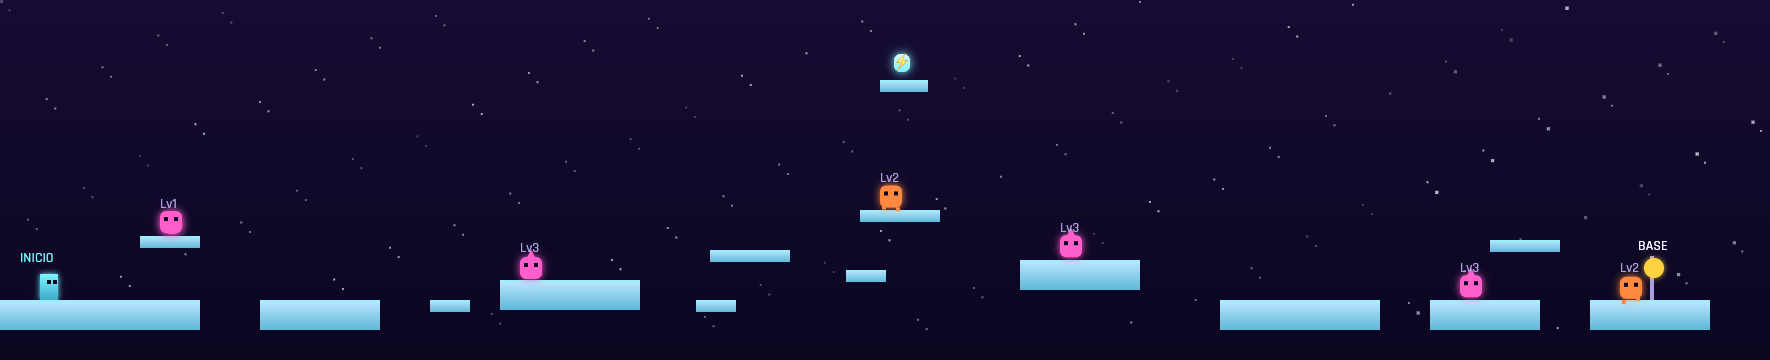
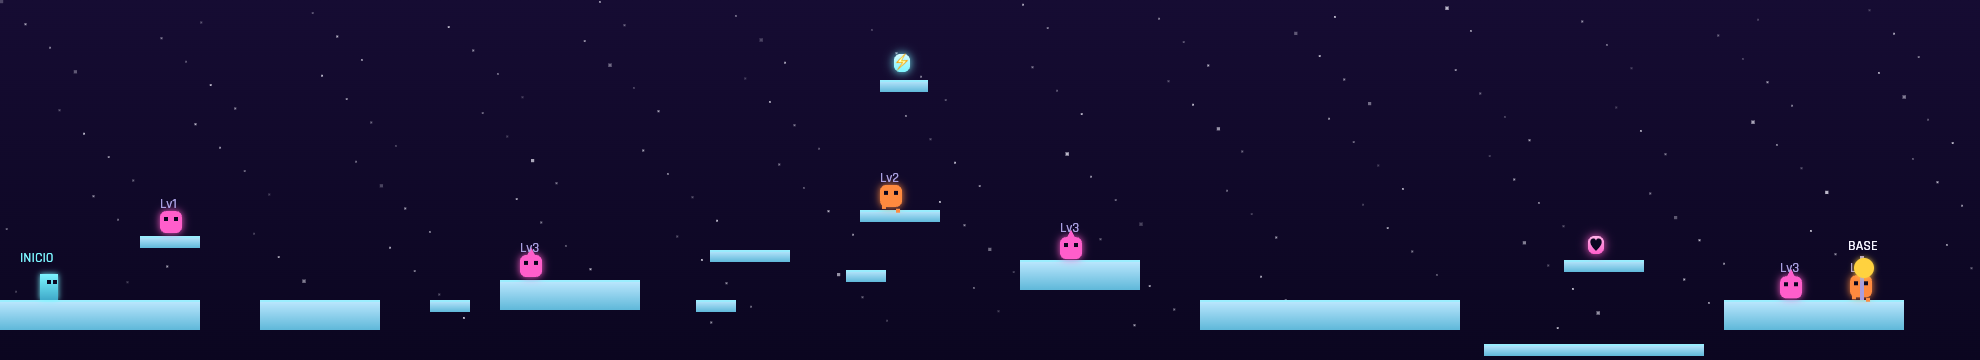
Grietas de Hielo: el hielo resbala de verdad y estrena su set piece
El nivel 2 era "un nivel normal con estética helada": el variant 'ice'
solo cambiaba el color. Ahora sobre hielo el movimiento tiene inercia
(constantes ICE_* en entities.js): la carrerilla supera la velocidad
normal (1.55 → 2.6), al soltar sigues deslizándote, y el impulso se
conserva al saltar — un salto con carrerilla llega a ~68u frente a ~42.
El control en el resto de suelos (y en el aire a velocidad base) queda
idéntico, así que ni el game feel de los otros 11 niveles ni la medición
maxReach del test BFS cambian; el flag iceMomentum evita que el dash de
Shade herede la inercia aérea (test de regresión incluido).

El tramo final del nivel es el set piece que lo enseña: pista de
despegue de 130 → hueco de 52 (entre el alcance del salto normal y el
del salto con carrerilla, fijado por test) → islote con la cápsula ♥,
que deja de estar en un salto trivial del arranque y pasa a ser el
premio por dominar la mecánica. Debajo, red de seguridad continua
(no piedras sueltas: el arco de un salto normal fallado caía justo
entre ellas y fallar habría sido muerte) que saca a la meseta final
con salto simple — Scrap y el BFS siguen pasando. Aviso contextual de
una sola vez al pisar hielo, mismo patrón que el de Scrap.

diff --git a/__tests__/live.test.js b/__tests__/live.test.js
@@ -440,6 +440,21 @@ describe('Diseño de niveles — completables con salto SIMPLE (Scrap), contra j
         expect(missing).toEqual([]);
     });
 
+    test('regla de diseño: el hueco del set piece de hielo (nivel 2) NO se cruza sin carrerilla', () => {
+        // Si algún día crece jumpPower/speed, este test avisa de que el set piece del nivel 2
+        // deja de serlo (el salto normal cruzaría gratis, sin necesitar el deslizamiento).
+        const { LEVELS, Player } = loadGame();
+        const maxReach = makeMaxReach(Player);
+        const lvl = LEVELS[1]; // Grietas de Hielo
+        const runway = lvl.platforms.find(p => p[0] === 600 && p[1] === 150);
+        const island = lvl.platforms.find(p => p[0] === 782 && p[1] === 130);
+        expect(runway).toBeDefined();
+        expect(island).toBeDefined();
+        const gap = island[0] - (runway[0] + runway[2]);
+        const dy = island[1] - runway[1];
+        expect(gap).toBeGreaterThan(maxReach(dy));
+    });
+
     test('los 12 niveles se pueden completar solo con salto simple — y por tanto con cualquier piloto', () => {
         const { LEVELS, Player } = loadGame();
         const maxReach = makeMaxReach(Player);
@@ -598,6 +613,86 @@ describe('Reto Diario (contra js/game.js real)', () => {
         const isRecord3 = game.saveDailyRecord('2026-08-25', 9000, 'kes'); // día NUEVO
         expect(isRecord3).toBe(true); // un día nuevo siempre "es récord" (no hay con qué comparar)
         expect(game.dailyRecord.time).toBe(9000);
+    });
+});
+
+describe('Hielo resbaladizo (contra js/entities.js real)', () => {
+    // Suelo largo del variant pedido + jugador ya de pie encima, con groundPlatform preasignado
+    // (en el juego real lo asigna el snap de aterrizaje del frame anterior).
+    function onFloor(variant, character = 'kes') {
+        const { Player, Platform, LEVELS } = loadGame();
+        const floor = new Platform(0, 150, 400, 15, variant);
+        const p = new Player(20, 137, character);
+        p.onGround = true; p.groundPlatform = floor;
+        const particles = { burst() {} };
+        return { p, floor, particles, Player, Platform, LEVELS };
+    }
+
+    test('sobre hielo, mantener la dirección coge carrerilla por encima de la velocidad base', () => {
+        const { p, floor, particles } = onFloor('ice');
+        for (let f = 0; f < 90; f++) p.update({ ArrowRight: true }, [floor], particles);
+        expect(p.vx).toBeGreaterThan(2.3); // muy por encima de speed (1.55), cerca de ICE_MAX_SPEED (2.6)
+    });
+
+    test('regresión: sobre suelo NO helado la velocidad sigue clavada en la base', () => {
+        const { p, floor, particles } = onFloor('metal');
+        for (let f = 0; f < 90; f++) p.update({ ArrowRight: true }, [floor], particles);
+        expect(p.vx).toBe(p.speed);
+    });
+
+    test('al soltar la dirección sobre hielo sigues deslizándote, y acabas frenando del todo', () => {
+        const { p, floor, particles } = onFloor('ice');
+        for (let f = 0; f < 90; f++) p.update({ ArrowRight: true }, [floor], particles);
+        p.update({}, [floor], particles);
+        expect(p.vx).toBeGreaterThan(1); // un frame después de soltar, aún deslizando (nada de parar en seco)
+        for (let f = 0; f < 120; f++) p.update({}, [floor], particles);
+        expect(Math.abs(p.vx)).toBeLessThan(0.1); // pero el deslizamiento sí se agota solo
+    });
+
+    test('el impulso de la carrerilla se conserva en el aire — ahí vive el salto largo', () => {
+        const { p, floor, particles } = onFloor('ice');
+        for (let f = 0; f < 90; f++) p.update({ ArrowRight: true }, [floor], particles);
+        p.update({ ArrowRight: true, Space: true }, [floor], particles); // salta con carrerilla
+        expect(p.onGround).toBe(false);
+        for (let f = 0; f < 10; f++) p.update({ ArrowRight: true }, [floor], particles);
+        expect(p.vx).toBeGreaterThan(2); // sigue muy por encima de la velocidad base en pleno vuelo
+    });
+
+    test('pulsar la dirección contraria en el aire devuelve el control normal (puedes frenarte)', () => {
+        const { p, floor, particles } = onFloor('ice');
+        for (let f = 0; f < 90; f++) p.update({ ArrowRight: true }, [floor], particles);
+        p.update({ ArrowRight: true, Space: true }, [floor], particles);
+        p.update({ ArrowLeft: true }, [floor], particles);
+        expect(p.vx).toBe(-p.speed); // el impulso se descarta en cuanto contradices la dirección
+    });
+
+    test('regresión: el dash de Shade no hereda la inercia aérea del hielo', () => {
+        const { p, floor, particles } = onFloor('metal', 'shade');
+        p.update({ Space: true }, [floor], particles);  // salto desde el suelo
+        p.update({}, [floor], particles);               // suelta (edge detection)
+        p.update({ Space: true }, [floor], particles);  // dash en el aire: 12 frames a 3.2
+        for (let f = 0; f < 13; f++) p.update({}, [floor], particles); // el dash se agota
+        expect(p.vx).toBe(0); // sin teclas y sin dash: control directo normal — el 3.2 no "flota"
+    });
+
+    test('el set piece del nivel 2: con carrerilla desde la pista se aterriza en el islote de la cápsula', () => {
+        const { LEVELS, Player, Platform } = loadGame();
+        const lvl = LEVELS[1]; // Grietas de Hielo
+        const plats = lvl.platforms.map(pp => new Platform(...pp, lvl.variant));
+        const p = new Player(602, 137, 'scrap'); // Scrap, sin habilidad aérea: si llega, es solo el hielo
+        p.onGround = true;
+        const particles = { burst() {} };
+        let jumped = false;
+        for (let f = 0; f < 300; f++) {
+            const keys = { ArrowRight: !jumped };
+            if (!jumped && p.x + p.w >= 729) { keys.Space = true; keys.ArrowRight = true; jumped = true; }
+            p.update(keys, plats, particles);
+            if (jumped && (p.onGround || p.y > 200)) break;
+        }
+        expect(jumped).toBe(true);
+        expect(p.y + p.h).toBe(130);            // de pie sobre el islote [782,130,40,6]...
+        expect(p.x + p.w).toBeGreaterThan(782); // ...cruzado el hueco de 52 de verdad
+        expect(p.x).toBeLessThan(822);          // ...y sin pasarse de largo
     });
 });
 

diff --git a/js/entities.js b/js/entities.js
@@ -136,12 +136,22 @@ const MAX_LIVES = 3;
 // nivel". Menos que el coste de la Habilidad (3), para que gastarla siga siendo una decisión.
 const ENERGY_PER_KILL = 2;
 
+// Hielo resbaladizo (plataformas variant 'ice' — DESIGN.md §2.20): sobre hielo el movimiento
+// tiene inercia — acelerar con carrerilla supera la velocidad normal (1.55 → 2.6) y ese impulso
+// se conserva al saltar, así que un salto con carrerilla llega bastante más lejos que uno normal.
+// Solo afecta al suelo 'ice': el game feel de todos los demás niveles queda intacto, y la
+// medición de alcance del test BFS (que simula el salto SIN carrerilla) sigue siendo fiel.
+const ICE_MAX_SPEED = 2.6;
+const ICE_ACCEL = 0.07;   // qué fracción del déficit de velocidad se gana por frame (lerp)
+const ICE_FRICTION = 0.94; // decaimiento por frame al soltar la dirección (~25u hasta pararse)
+
 class Player {
     constructor(x, y, character = 'kes') {
         Object.assign(this, {
             x, y, w: 9, h: 13, vx: 0, vy: 0, facing: 1, character,
             speed: 1.55, jumpPower: -4.3, doubleJumpPower: -3.5, gravity: 0.32,
             onGround: false, jumping: false, usedAirAbility: false,
+            groundPlatform: null, iceMomentum: false,
             dashTimer: 0, dashSpeed: 3.2, flyDrainTimer: 0,
             prevJumpKey: false, squash: 1, animT: 0, blinkTimer: 90 + Math.random() * 120,
             level: 1, maxHp: 22, hp: 22, maxEnergy: 10, energy: 10,
@@ -152,8 +162,35 @@ class Player {
     update(keys, platforms, particles) {
         const left = keys.ArrowLeft || keys.KeyA;
         const right = keys.ArrowRight || keys.KeyD;
-        if (this.dashTimer <= 0) this.vx = left ? -this.speed : right ? this.speed : 0;
+        // Hielo resbaladizo: sobre suelo 'ice' el movimiento tiene inercia (ver constantes ICE_*).
+        // groundPlatform es el suelo del frame ANTERIOR — el orden input→física hace imposible
+        // saber el de este frame aquí, y un frame de retardo es imperceptible.
+        const onIce = this.onGround && this.groundPlatform && this.groundPlatform.variant === 'ice';
+        if (this.dashTimer <= 0) {
+            if (onIce) {
+                // Con dirección: lerp hacia ±ICE_MAX_SPEED (acelera con carrerilla, frena y gira
+                // con la misma inercia). Sin dirección: sigues deslizándote, no te paras en seco.
+                const target = left ? -ICE_MAX_SPEED : right ? ICE_MAX_SPEED : null;
+                if (target !== null) this.vx += (target - this.vx) * ICE_ACCEL;
+                else this.vx *= ICE_FRICTION;
+                this.iceMomentum = true;
+            } else if (!this.onGround && this.iceMomentum && Math.abs(this.vx) > this.speed && !(this.vx > 0 ? left : right)) {
+                // Impulso de hielo conservado en el aire: mantener la dirección (o soltar todo)
+                // no lo pierde, solo decae suave; pulsar la contraria devuelve el control normal.
+                // El flag iceMomentum acota esto a saltos que salen DE hielo — sin él, el dash de
+                // Shade (vx 3.2) también quedaría flotando tras sus 12 frames y cambiaría su alcance.
+                this.vx *= 0.995;
+            } else {
+                this.vx = left ? -this.speed : right ? this.speed : 0;
+                this.iceMomentum = false;
+            }
+        }
         if (left) this.facing = -1; else if (right) this.facing = 1;
+        // Viruta de hielo bajo los pies mientras te deslizas por encima de la velocidad normal —
+        // el aviso visual de que llevas carrerilla (puramente estético: Math.random, no RNG).
+        if (onIce && Math.abs(this.vx) > this.speed && Math.random() < 0.35) {
+            particles.burst(this.x + this.w / 2 - this.facing * 4, this.y + this.h, '#bfe9ff', 1, { speed: 0.5, life: 10, size: 1.5 });
+        }
 
         const jumpKey = !!(keys.Space || keys.ArrowUp || keys.KeyW);
         const jumpPressed = jumpKey && !this.prevJumpKey;
@@ -193,6 +230,7 @@ class Player {
             if (this.x < p.x + p.w && this.x + this.w > p.x && this.y < p.y + p.h && this.y + this.h > p.y) {
                 if (this.vy > 0 && this.y + this.h <= p.y + 10) {
                     this.y = p.y - this.h; this.vy = 0; this.onGround = true; this.jumping = false; this.usedAirAbility = false;
+                    this.groundPlatform = p; // qué suelo pisas — el frame siguiente decide si resbala (hielo)
                 }
             }
         });

diff --git a/js/levels.js b/js/levels.js
@@ -23,10 +23,14 @@ const LEVELS = [
     },
     {
         name: 'Grietas de Hielo', world: 1, variant: 'ice',
+        // TODO el suelo de este nivel es hielo (variant 'ice'): el movimiento tiene inercia — la
+        // carrerilla supera la velocidad normal y el impulso se conserva al saltar (ver ICE_* en
+        // entities.js). El tramo final es el set piece que lo enseña: pista de despegue → hueco
+        // de 52 que SOLO se cruza deslizándose (el salto normal llega a ~42 en llano).
         platforms: [
             [0, 150, 100, 15], [130, 150, 60, 15],
             [70, 118, 30, 6], [250, 140, 70, 15], [355, 125, 40, 6],
-            [430, 105, 40, 6], [510, 130, 60, 15], [610, 150, 80, 15],
+            [430, 105, 40, 6], [510, 130, 60, 15],
             // plataforma secreta muy alta sobre [430,105,40,6]: fuera del alcance de un doble salto
             // normal, solo se llega manteniendo pulsado el salto de Bolt (vuelo)
             [440, 40, 24, 6],
@@ -35,14 +39,31 @@ const LEVELS = [
             // Cualquier piloto puede usarlas, pero solo Scrap las NECESITA — para los demás son un
             // desvío más lento que saltar directo.
             [215, 150, 20, 6], [348, 150, 20, 6], [423, 135, 20, 6],
-            // Tramo final añadido al alargar el nivel (huecos ≤25 en llano, salto simple).
-            [715, 150, 55, 15], [795, 150, 60, 15], [745, 120, 35, 6]
+            // Set piece del deslizamiento: pista de despegue larga (130 — de sobra para llegar
+            // a velocidad máxima de carrerilla) y, tras un hueco de 52 en llano, el islote con
+            // la cápsula a media altura (y=130): con carrerilla se aterriza en él de lleno; sin
+            // ella el salto se queda corto y caes a la grieta de abajo.
+            [600, 150, 130, 15], [782, 130, 40, 6],
+            // Fondo de la grieta bajo el hueco: red de seguridad CONTINUA (como la del Nido de
+            // la Reina Larva) — cualquier salto fallado desde la pista cae aquí, sin perder nada
+            // más que el premio, y sale a la meseta con un salto simple. Continua a propósito:
+            // con piedras sueltas, el arco de un salto normal fallado desde el borde caía justo
+            // en los huecos entre piedras y "fallar el set piece" se convertía en muerte.
+            // Desde el fondo, el islote (42 más arriba) queda fuera de alcance de cualquier
+            // salto: la cápsula es el premio del salto con carrerilla, no de la ruta lenta.
+            [742, 172, 110, 6],
+            // Meseta final con la meta.
+            [862, 150, 90, 15]
         ],
-        enemies: [[80, 106, 'drone'], [260, 128, 'spiker'], [440, 93, 'crawler'], [530, 118, 'spiker'], [730, 138, 'spiker'], [810, 138, 'crawler']],
-        // Cápsula escondida sobre la plataforma flotante [70,118,30,6], que no hace falta pisar para avanzar
-        capsules: [[82, 108]],
+        // El erizo de la meseta lleva rango corto (25) a propósito: salta y NO gira en los bordes
+        // como los reptantes, así que sin acotarlo acabaría cayéndose a la grieta del set piece.
+        enemies: [[80, 106, 'drone'], [260, 128, 'spiker'], [440, 93, 'crawler'], [530, 118, 'spiker'], [890, 138, 'spiker', 25], [925, 138, 'crawler']],
+        // Cápsula en el islote del set piece [782,130,40,6]: solo se alcanza con el salto con
+        // carrerilla desde la pista (o gastando Energía en habilidad aérea) — antes estaba sobre
+        // la flotante del arranque [70,118,30,6], un salto simple trivial que no premiaba nada.
+        capsules: [[794, 118]],
         energyCells: [[447, 27]],
-        goal: 825
+        goal: 930
     },
     {
         name: 'Nido de la Reina Larva', world: 1, variant: 'normal',

diff --git a/js/game.js b/js/game.js
@@ -1238,6 +1238,9 @@ class Game {
                     && Math.abs((this.player.y + this.player.h) - p.y) < 2;
                 if (!standingOn) continue;
                 if (p.variant === 'fragile') p.touched();
+                // Hielo: la física vive en Player.update() (inercia, ver ICE_* en entities.js);
+                // aquí solo el aviso de una sola vez la primera vez que se pisa, como el de Scrap.
+                else if (p.variant === 'ice') this.showHint('ice-slide', 'El hielo resbala: mantén la dirección para coger carrerilla y saltar más lejos — y cuidado al frenar.');
                 else if (p.variant === 'beltL') this.player.x -= 0.45;
                 else if (p.variant === 'beltR') this.player.x += 0.45;
                 else if (p.variant === 'reinforced' && this.player.character === 'scrap') {

diff --git a/README.md b/README.md
@@ -48,7 +48,7 @@ Todos los niveles se pueden completar con cualquier piloto (verificado por un te
 | Mundo | Sector | Nombre | Qué aporta |
 |---|---|---|---|
 | 1 · Luna Cenizal | 1 | Cráter de Amerizaje | Tutorial de salto/energía; bóveda reforzada de Scrap |
-| | 2 | Grietas de Hielo | Primeros huecos que premian el doble salto; secreto de vuelo de Bolt |
+| | 2 | Grietas de Hielo | **Hielo resbaladizo**: carrerilla con inercia y salto largo del set piece; secreto de vuelo de Bolt |
 | | 3 | Nido de la Reina Larva | **Jefe: Reina Larva** — se regenera cada 3 turnos; hueco de dash de Shade |
 | 2 · Luna Ferrosa | 4 | Chatarral Magnético | Enemigos voladores; **debutan las plataformas frágiles y las móviles** |
 | | 5 | Tormenta de Iones | Huecos largos, la ruta alta exige habilidad aérea |
